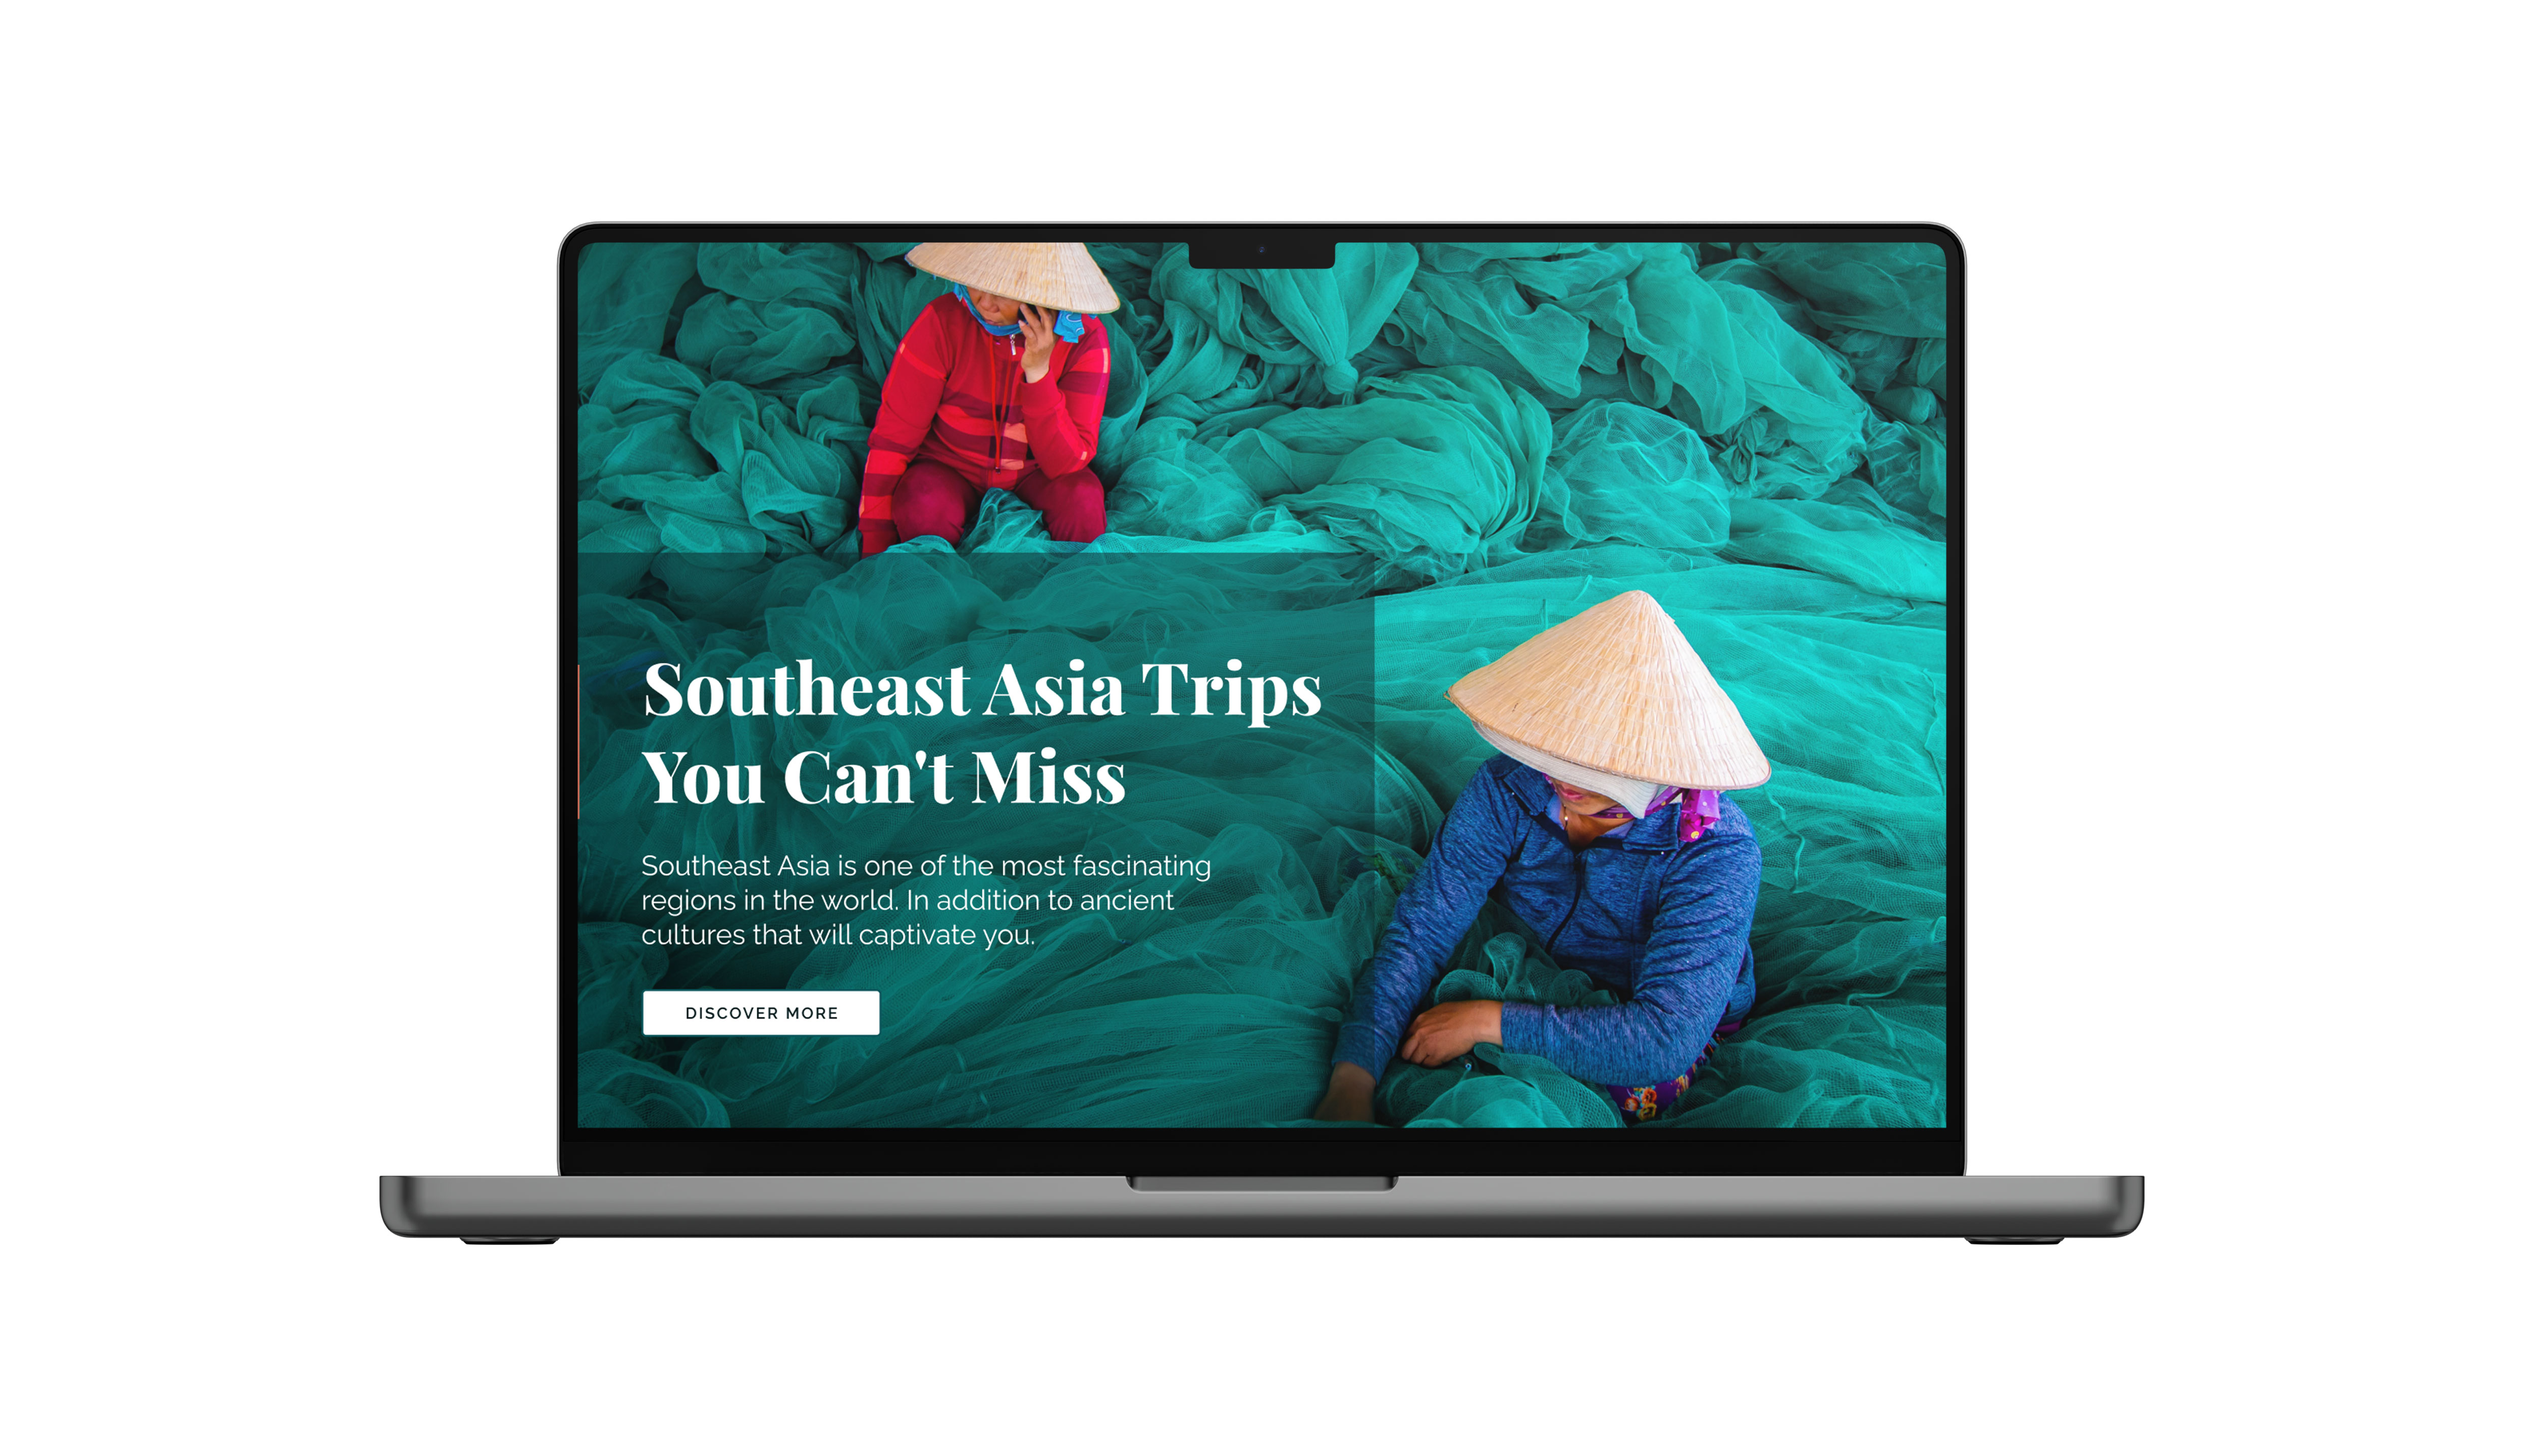
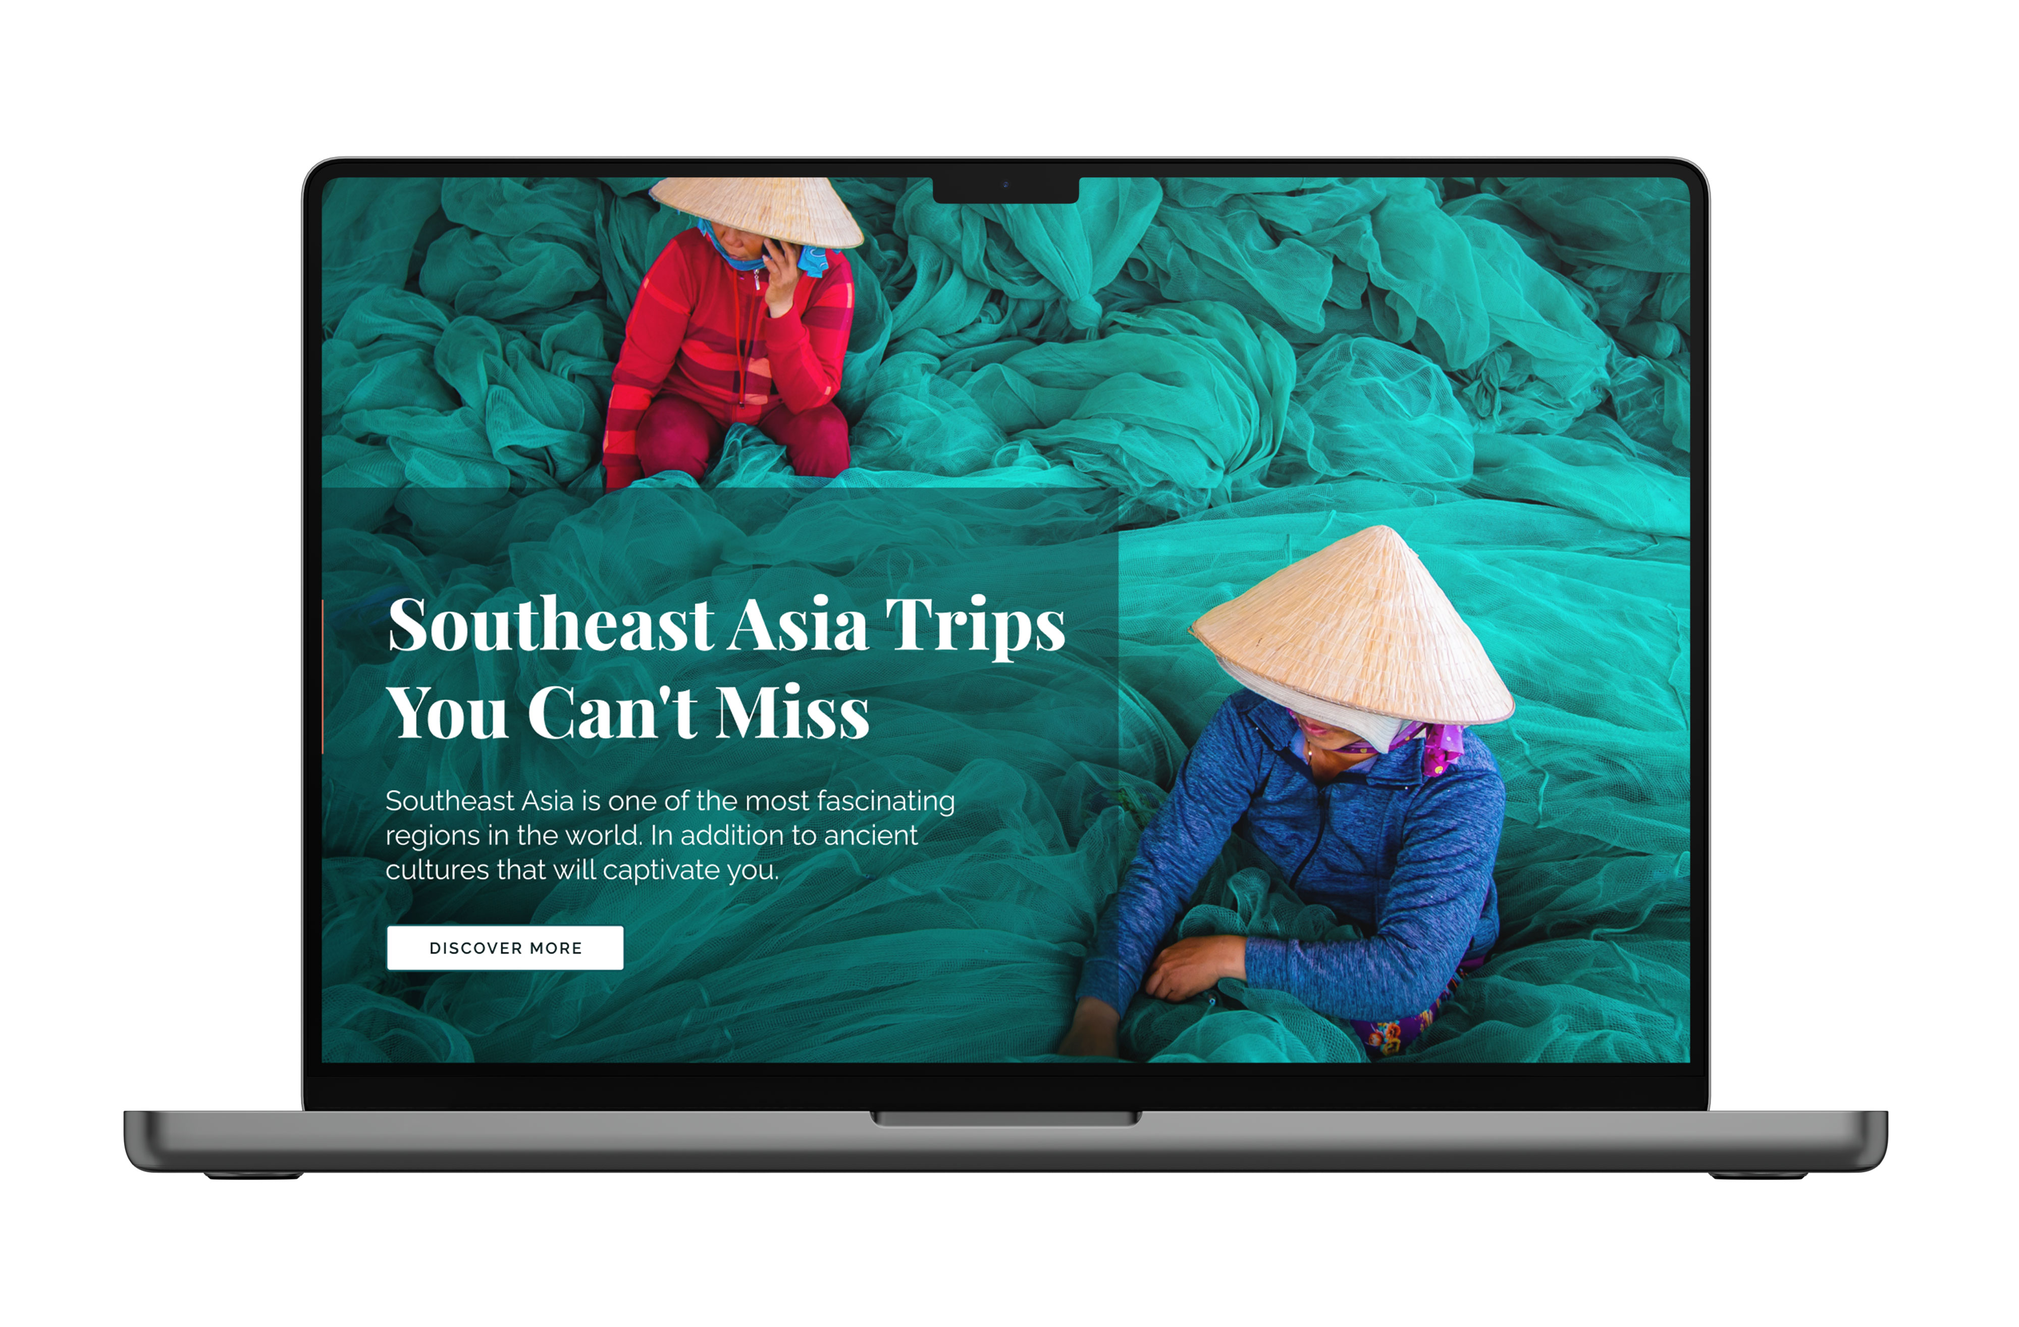
change text and images

diff --git a/index.html b/index.html
@@ -139,7 +139,7 @@
           </div>
         </div>
 
-        <img class="padded-content" src="images/thewonder_tatiana_ayazo_branding_3@2x.png"/>
+        <img class="padded-content" src="images/thewonder_branding_5.png"/>
       </div>
     </section>
 
